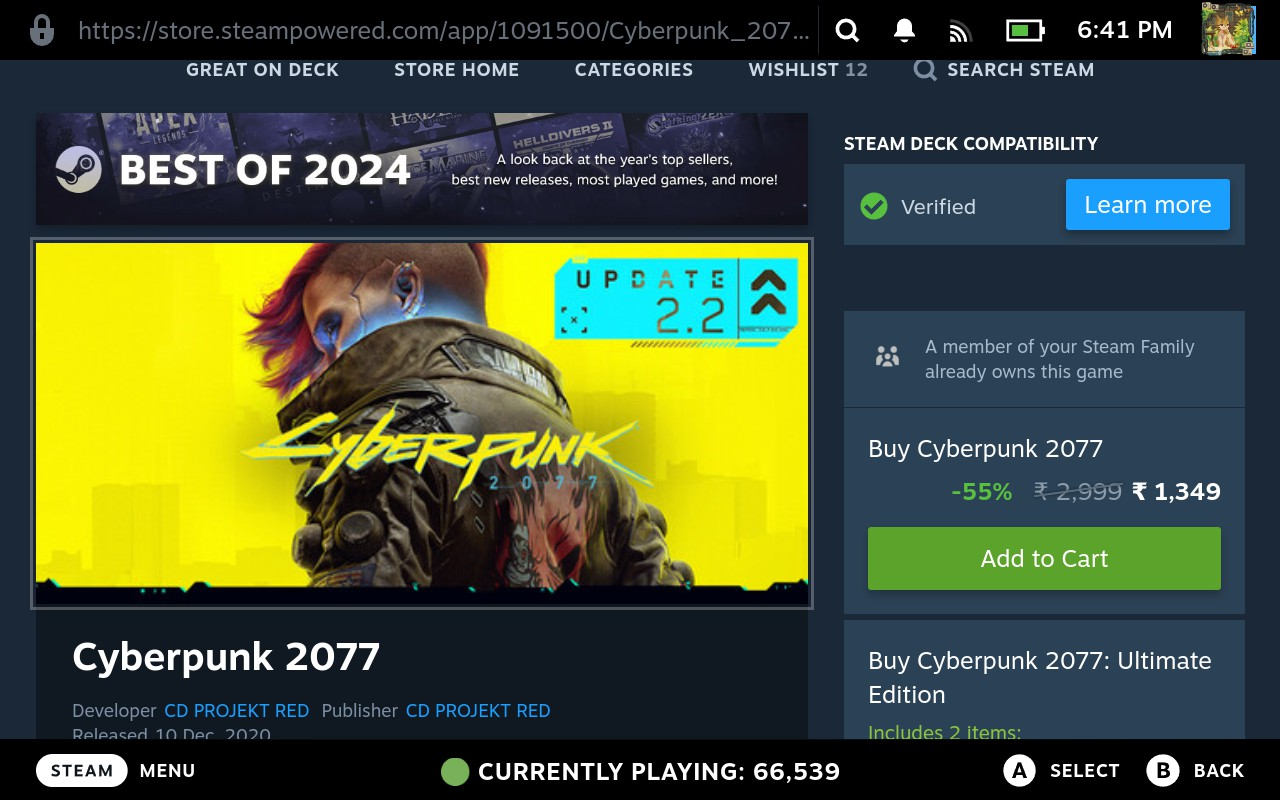
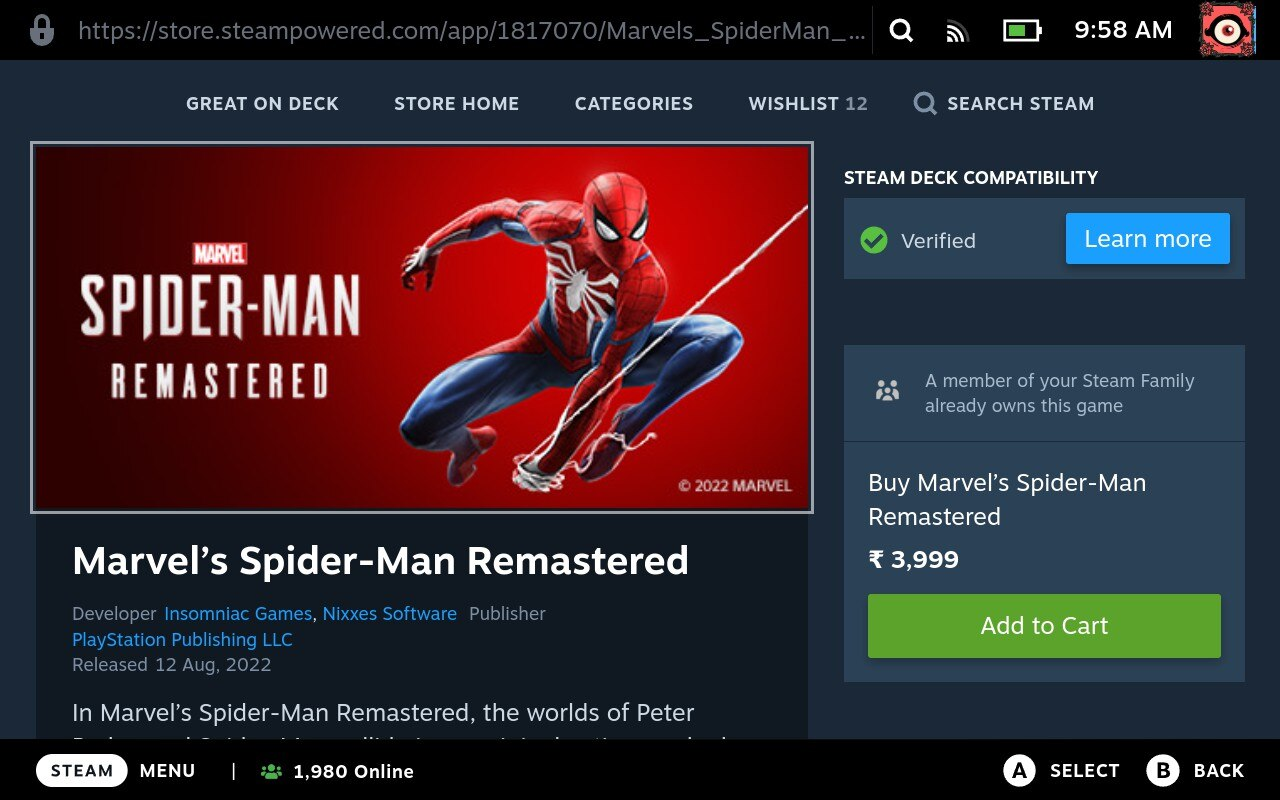
store view placement fix

diff --git a/src/components/PlayerCount.tsx b/src/components/PlayerCount.tsx
@@ -1,6 +1,7 @@
 import { useEffect, useState, useRef } from 'react';
 import { fetchNoCors } from '@decky/api';
 import { Navigation, staticClasses } from '@decky/ui';
+import { FaUsers } from "react-icons/fa";
 import { CACHE } from '../utils/Cache';
 import { loadSettings, subscribeToSettings } from '../utils/Settings';
 
@@ -13,7 +14,7 @@ interface SteamPlayerResponse {
 
 export const PlayerCount = () => {
   const [appId, setAppId] = useState<string | undefined>(undefined);
-  const [playerCount, setPlayerCount] = useState<string>("");
+  const [playerCount, setPlayerCount] = useState<string | JSX.Element>("");
   const [isVisible, setIsVisible] = useState<boolean>(false);
   const [settings, setSettings] = useState(loadSettings());
   const mountedRef = useRef(true);
@@ -91,7 +92,19 @@ export const PlayerCount = () => {
         
         if (data.response.result === 1) {
           const formattedCount = new Intl.NumberFormat().format(data.response.player_count);
-          setPlayerCount(`🟢 Currently Playing: ${formattedCount}`);
+          setPlayerCount(
+            window.SP_REACT.createElement('span', { style: { display: 'flex', alignItems: 'center', gap: '8px', marginLeft: '1px' } }, [
+              '|',
+              window.SP_REACT.createElement(FaUsers, { 
+                key: "users-icon",
+                size: 14,
+                style: { marginLeft: '8px', color: '#4CAF50' }
+              }),
+              window.SP_REACT.createElement('span', { 
+                style: { textTransform: 'none' } 
+              }, `${formattedCount} Online`)
+            ])
+          );
           setIsVisible(true);
         } else {
           setPlayerCount("No player data available");
@@ -134,19 +147,19 @@ export const PlayerCount = () => {
         }
       },
       style: {
-        width: 420,
+        width: "fit-content",
         display: "flex",
         flexDirection: "row",
         alignItems: "center",
         justifyContent: "center",
         flexWrap: "wrap",
-        padding: "7px 16px",
+        padding: "7px 12px",
         fontSize: "12px",
         zIndex: 7002,
         position: "fixed",
         bottom: 2,
-        left: '50%',
-        transform: `translateX(-50%)`,
+        left: '20%',
+        transform: `translateX(-20%)`,
         color: "#ffffff",
         cursor: "pointer",
       }
